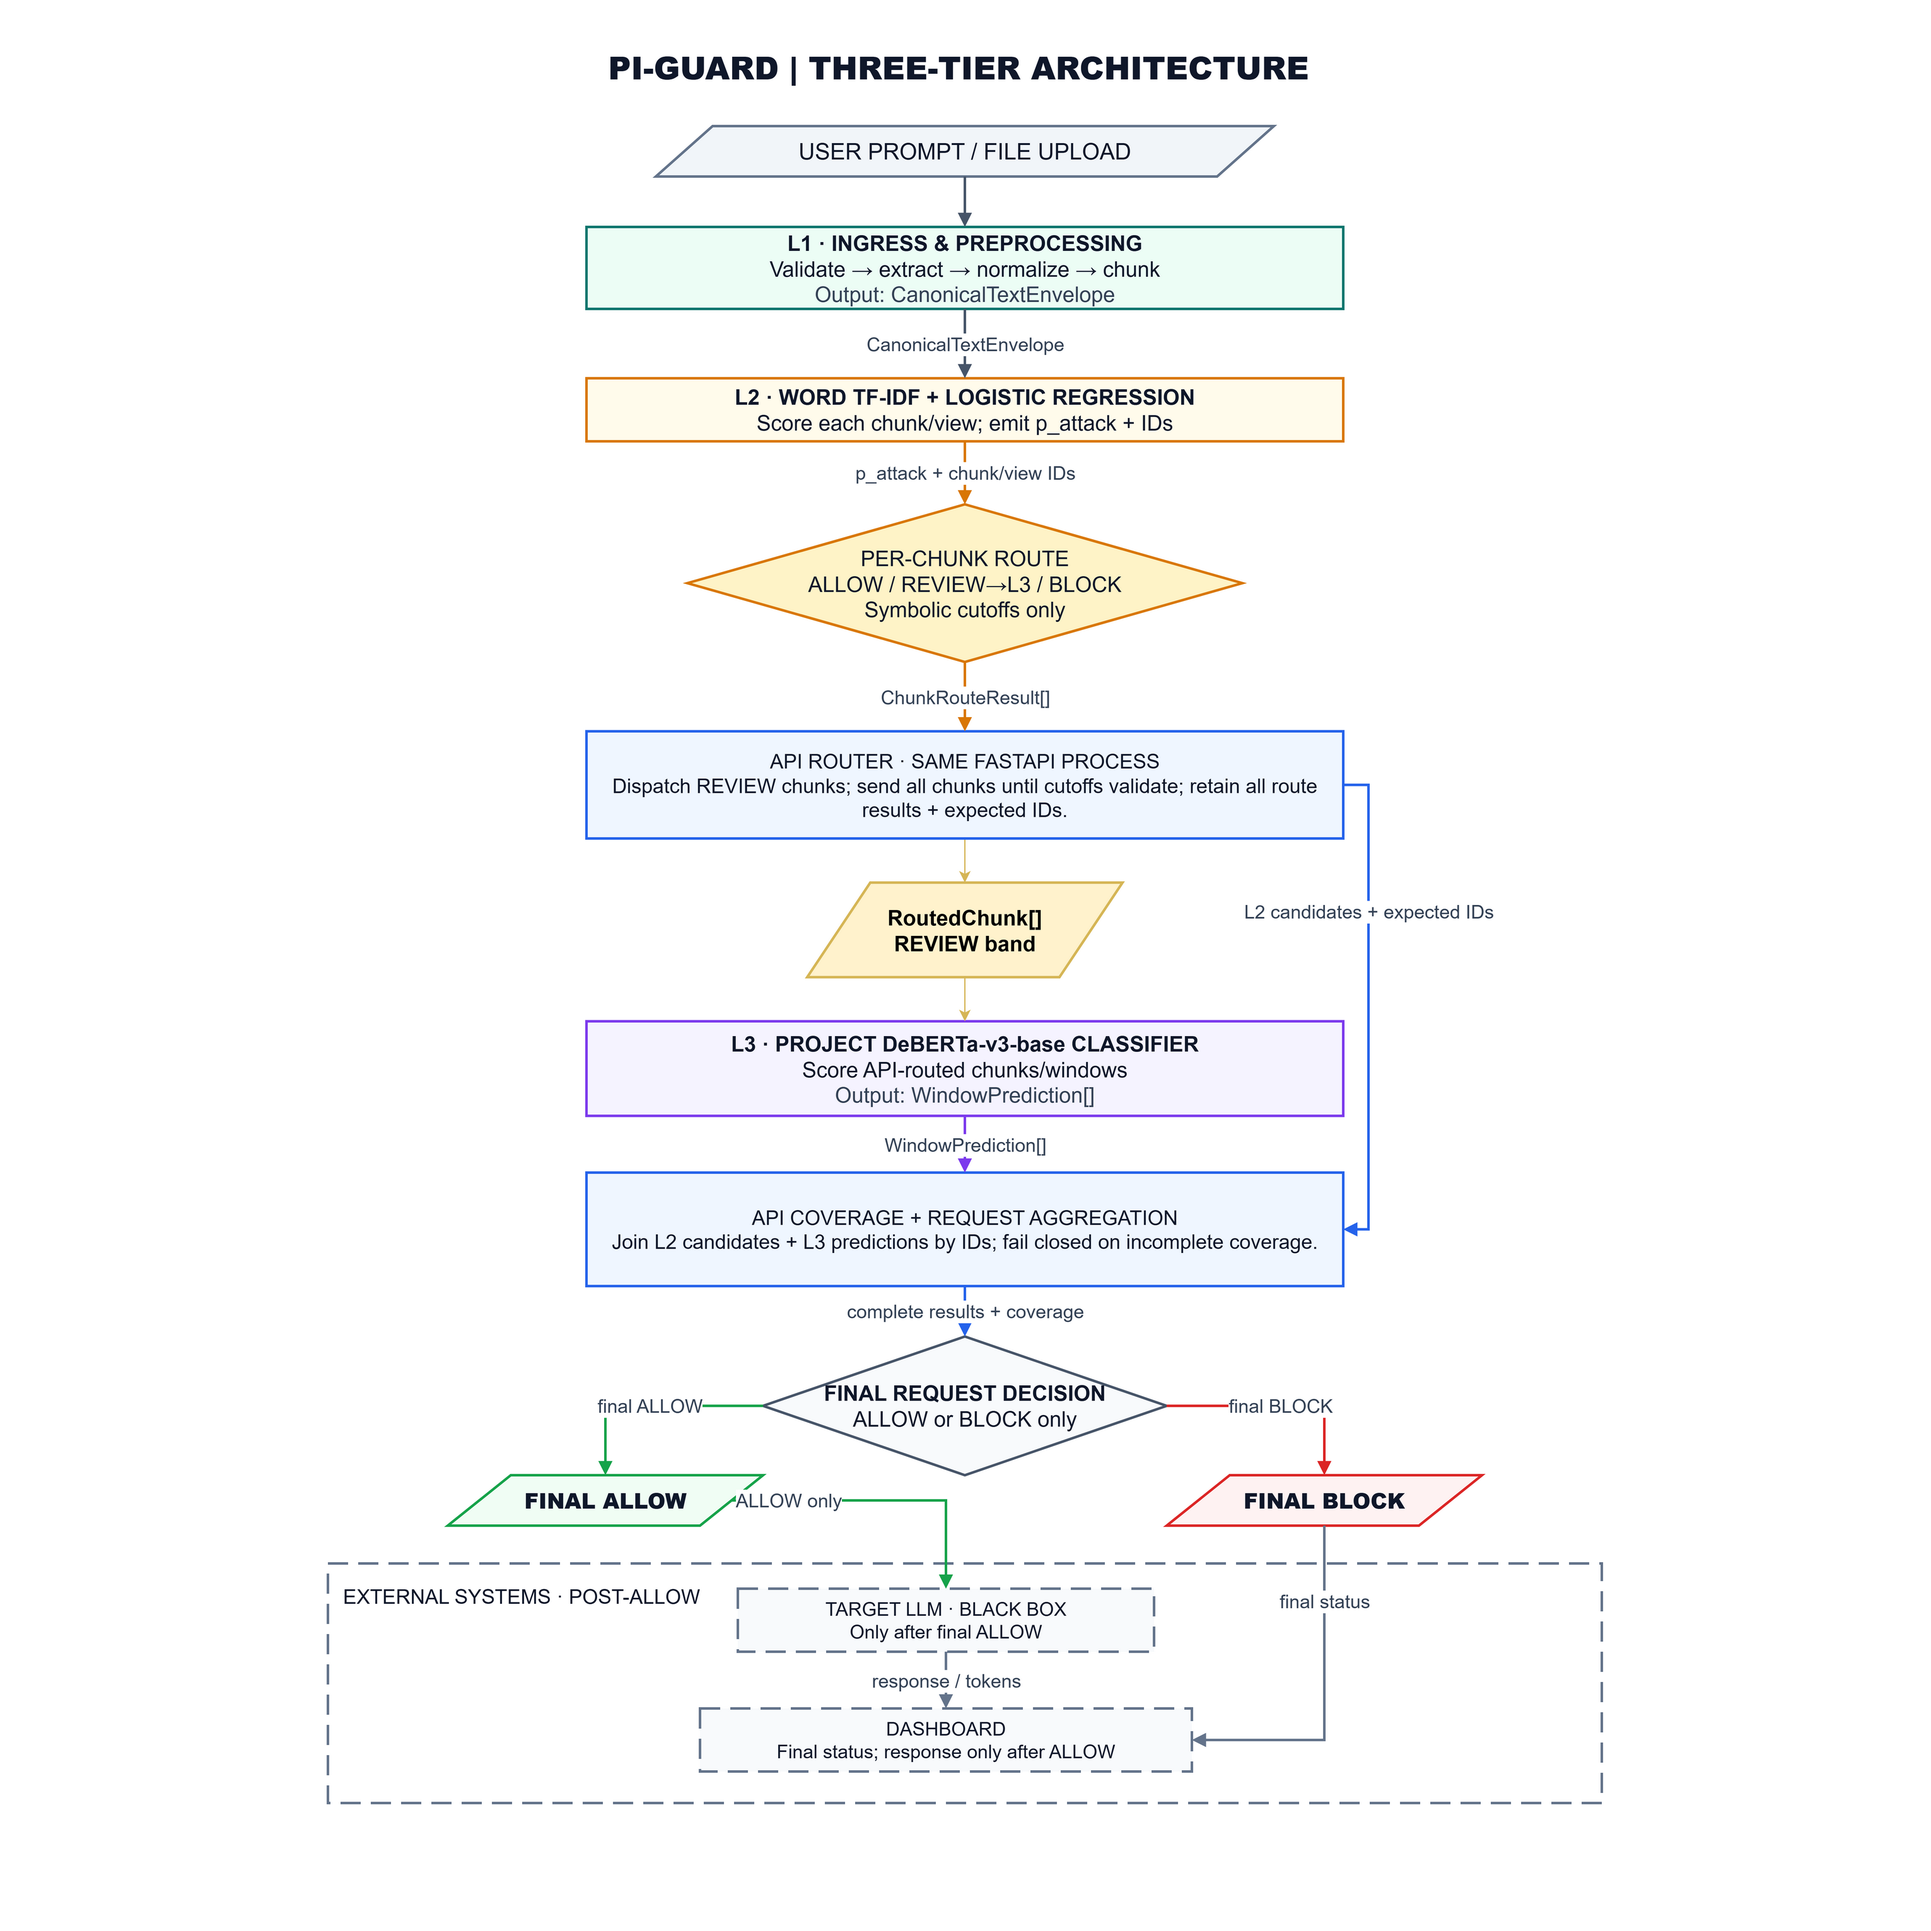
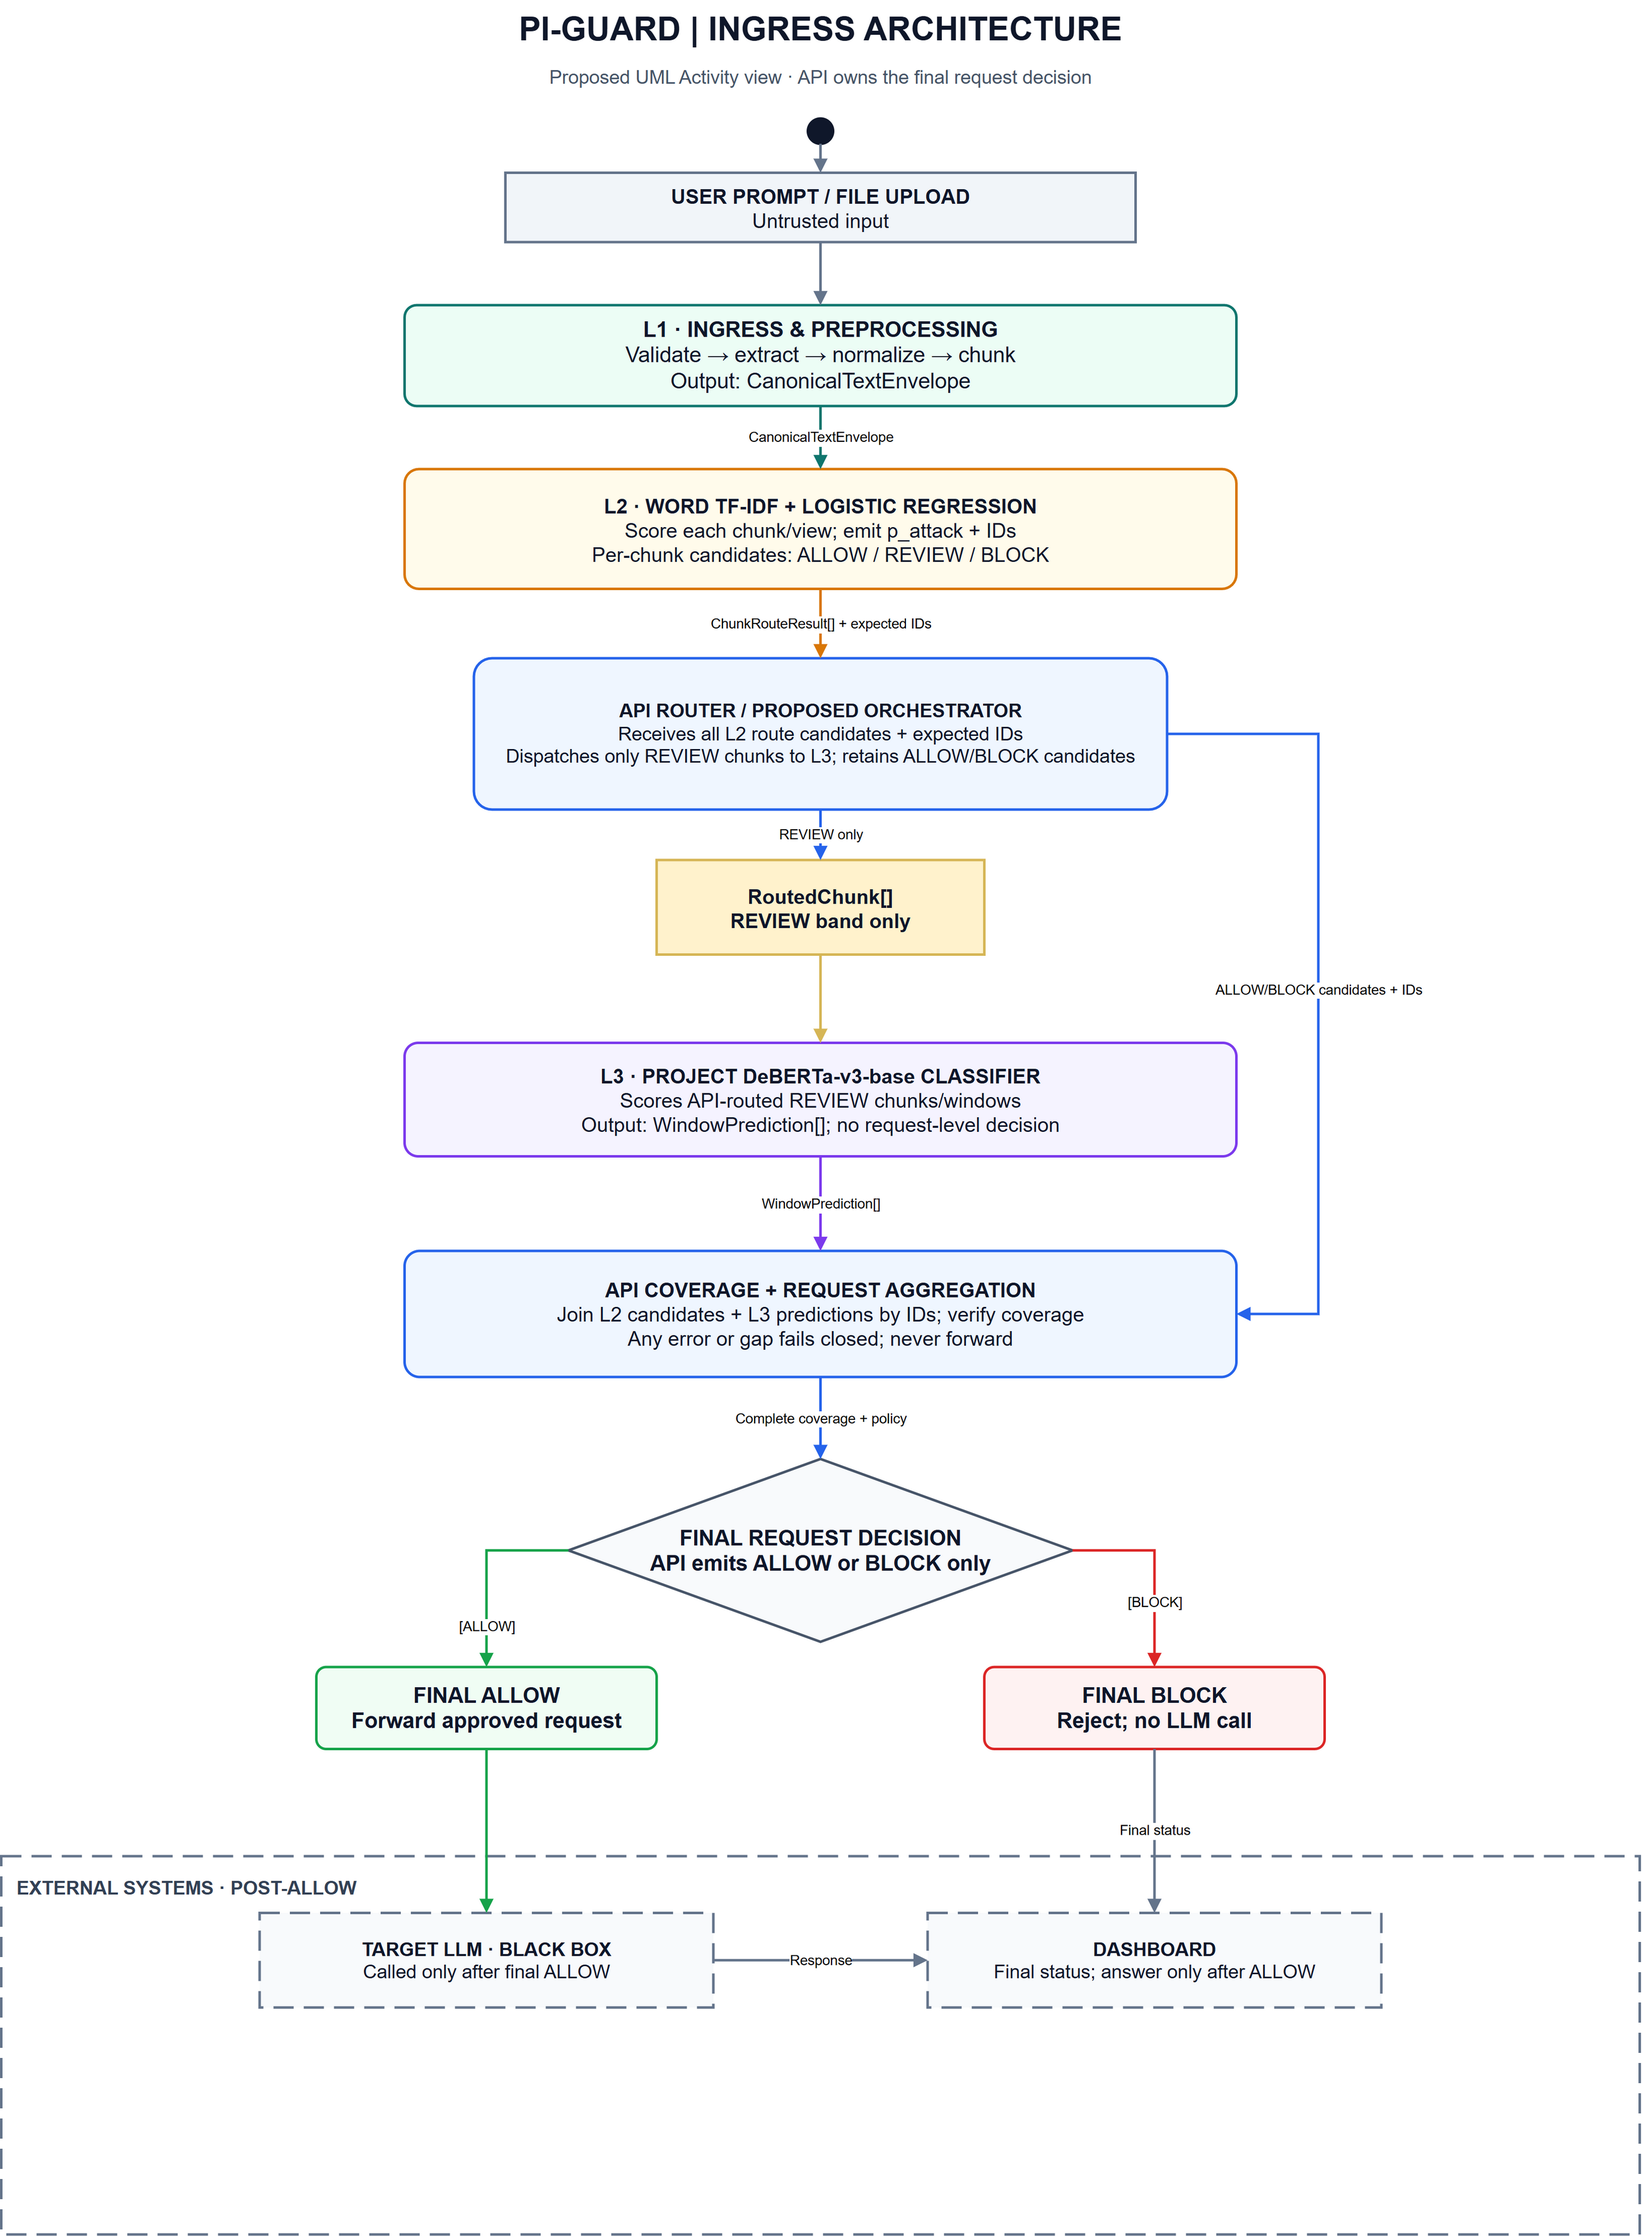
docs: sync ingress architecture previews

diff --git a/Final-Report/README.md b/Final-Report/README.md
@@ -6,7 +6,7 @@ This folder holds tracked capstone materials, the official progress workbook, th
 
 Review 1 progress is recorded as complete. Review 2 is active and its umbrella task remains open. Personal experiment reports and run artifacts under `workspaces/truongnv/` are local-only and are not part of these shared deliverables. No Review 2 metrics are asserted here without a tracked, provenance-backed report.
 
-The ingress architecture available as an editable [Draw.io source](PI_GUARD_INGRESS_ARCHITECTURE.drawio) and [PNG preview](PI_GUARD_INGRESS_ARCHITECTURE.png) is a proposal. It does not claim that every component is implemented or that project KPIs have been accepted. L2 emits per-chunk ALLOW/REVIEW/BLOCK candidates; the API routes REVIEW chunks to L3, retains the other candidates, verifies coverage, and alone emits the final request ALLOW/BLOCK decision. Only final ALLOW reaches the target LLM. The linked PNG is an older export and does not reflect the updated route labels; use the editable source for the current architecture.
+The ingress architecture available as an editable [eight-page Draw.io source](PI_GUARD_INGRESS_ARCHITECTURE.drawio) and [PNG preview](PI_GUARD_INGRESS_ARCHITECTURE.png) is a proposal. The PNG is the vertical-summary export from page 2; the matching portal copy is `Github-Page/assets/ingress_architecture_review1_summary_vertical.png`. It does not claim that every component is implemented or that project KPIs have been accepted. L2 emits per-chunk ALLOW/REVIEW/BLOCK candidates; the API routes REVIEW chunks to L3, retains the other candidates, verifies coverage, and alone emits the final request ALLOW/BLOCK decision. Only final ALLOW reaches the target LLM. The linked PNG preview was re-exported from the current editable source.
 
 ## Contents
 

diff --git a/Github-Page/README.md b/Github-Page/README.md
@@ -2,7 +2,7 @@
 
 This directory is the checked-in source for the MkDocs Material GitHub Pages site. The deployment configuration is the repository-root mkdocs.yml; this folder does not have a separate MkDocs configuration.
 
-The [home page](index.md) and [ingress architecture overview](models/ingress_architecture.md) describe the current Review 2 status and the proposed L1/L2/L3/API flow. The architecture is a proposal; the seed-42 cascade experiment is one local run and does not establish final project KPI acceptance or a deployed service.
+The [home page](index.md) and [ingress architecture overview](models/ingress_architecture.md) describe the current Review 2 status and the proposed L1/L2/L3/API flow. Their vertical-summary image is the page 2 export of the canonical eight-page [Draw.io source](https://github.com/nvtruongops/pi-guard/blob/main/Final-Report/PI_GUARD_INGRESS_ARCHITECTURE.drawio), with the standalone preview at [PI_GUARD_INGRESS_ARCHITECTURE.png](https://github.com/nvtruongops/pi-guard/blob/main/Final-Report/PI_GUARD_INGRESS_ARCHITECTURE.png) and the portal copy at `assets/ingress_architecture_review1_summary_vertical.png`. The architecture is a proposal; the seed-42 cascade experiment is one local run and does not establish final project KPI acceptance or a deployed service.
 
 The homepage is maintained in the checked-in index.md. Final-Report/scripts/build_docs_portal.py copies mapped topic content and refreshes static assets while preserving existing checked-in pages. To preview and check the portal from the repository root, run:
 

diff --git a/Github-Page/index.md b/Github-Page/index.md
@@ -12,6 +12,8 @@ Review 2 is active and its umbrella task remains open. A separate seed-42 TF-IDF
 
 ![Review 1 proposed ingress architecture, vertical summary](assets/ingress_architecture_review1_summary_vertical.png)
 
+This is the vertical-summary export from page 2 of the canonical eight-page [Draw.io source](https://github.com/nvtruongops/pi-guard/blob/main/Final-Report/PI_GUARD_INGRESS_ARCHITECTURE.drawio). The corresponding standalone PNG is [PI_GUARD_INGRESS_ARCHITECTURE.png](https://github.com/nvtruongops/pi-guard/blob/main/Final-Report/PI_GUARD_INGRESS_ARCHITECTURE.png).
+
 L1 validates, normalizes, and splits input into identified chunks/views. L2 scores each chunk and emits an ALLOW candidate, REVIEW, or BLOCK candidate. The API sends REVIEW chunks to L3 and joins all results by IDs and coverage. Only API aggregation/policy emits the final request-level ALLOW or BLOCK; only final ALLOW reaches the downstream LLM.
 
 The diagram is a Review 1 proposal. Its tau_allow and tau_block are symbolic assumptions, not established project-wide or service cutoffs. A separate experiment selected gates on its validation split; those gates apply to that run alone. The proposed service flow has not been accepted as a deployed system.

diff --git a/README.md b/README.md
@@ -10,6 +10,8 @@ Review 2 is active. Research runs and drafts in `workspaces/truongnv/` are local
 
 ![Review 1 proposed ingress architecture, vertical summary](Github-Page/assets/ingress_architecture_review1_summary_vertical.png)
 
+This is the page 2 vertical-summary export from the canonical eight-page [editable Draw.io source](Final-Report/PI_GUARD_INGRESS_ARCHITECTURE.drawio). The standalone export is [PI_GUARD_INGRESS_ARCHITECTURE.png](Final-Report/PI_GUARD_INGRESS_ARCHITECTURE.png); the portal copy above is kept in sync with it.
+
 The figure is a Review 1 proposal. L1 validates, normalizes, and splits input into identified chunks/views. L2 emits one route candidate per chunk: ALLOW candidate, REVIEW, or BLOCK candidate. The API sends REVIEW chunks to L3 and combines L2 candidates with L3 predictions by IDs and coverage. Only the API aggregation/policy stage produces a final request-level ALLOW or BLOCK; only final ALLOW is forwarded to a downstream LLM.
 
 The diagram uses symbolic tau_allow and tau_block parameters. They are assumptions in the proposal, not established project-wide or service cutoffs. The architecture remains a proposal, not an implementation claim.

diff --git a/Github-Page/models/ingress_architecture.md b/Github-Page/models/ingress_architecture.md
@@ -1,6 +1,8 @@
 # Proposed PI-Guard ingress architecture
 
-> The visual preview is pending re-export. The text below reflects the current editable proposal.
+![Review 1 proposed ingress architecture, vertical summary](../assets/ingress_architecture_review1_summary_vertical.png)
+
+This is the vertical-summary export from page 2 of the canonical eight-page [Draw.io source](https://github.com/nvtruongops/pi-guard/blob/main/Final-Report/PI_GUARD_INGRESS_ARCHITECTURE.drawio). The corresponding standalone PNG is [PI_GUARD_INGRESS_ARCHITECTURE.png](https://github.com/nvtruongops/pi-guard/blob/main/Final-Report/PI_GUARD_INGRESS_ARCHITECTURE.png).
 
 This diagram summarizes the Review 1 architecture proposal. It is not evidence that an end-to-end service has been integrated or accepted.
 
